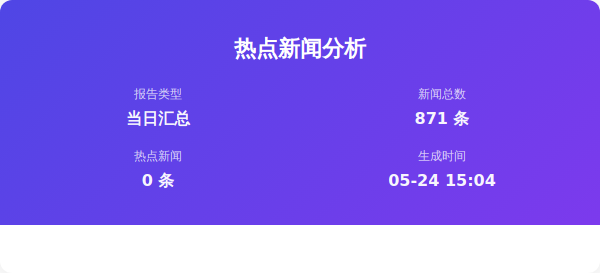
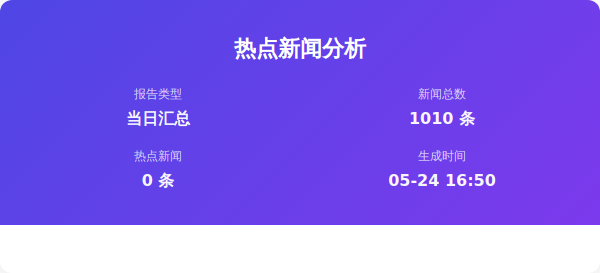
Auto update by GitHub Actions at Sun May 24 16:50:44 CST 2026

Changed region(s): [[0.66, 0.4103, 0.81, 0.4689], [0.75, 0.6447, 0.84, 0.674]]

diff --git a/output/2026年05月24日/html/当日汇总.html b/output/2026年05月24日/html/当日汇总.html
@@ -357,7 +357,7 @@
                     </div>
                     <div class="info-item">
                         <span class="info-label">新闻总数</span>
-                        <span class="info-value">871 条</span>
+                        <span class="info-value">1010 条</span>
                     </div>
                     <div class="info-item">
                         <span class="info-label">热点新闻</span>
@@ -365,7 +365,7 @@
                     </div>
                     <div class="info-item">
                         <span class="info-label">生成时间</span>
-                        <span class="info-value">05-24 15:04</span>
+                        <span class="info-value">05-24 16:50</span>
                     </div>
                 </div>
             </div>